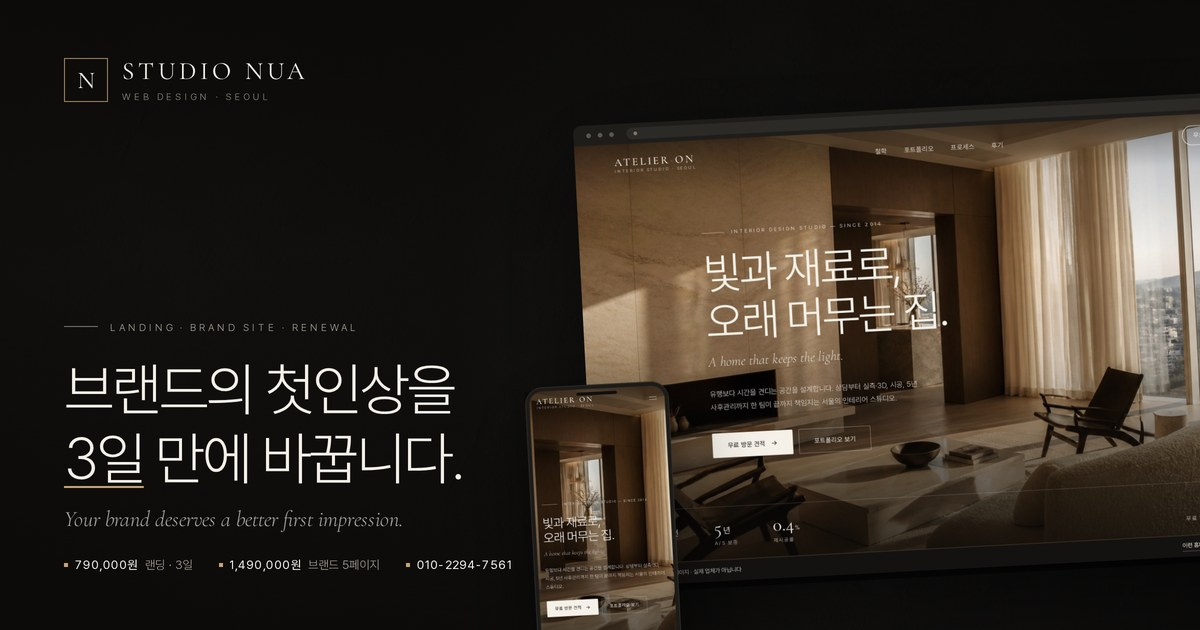
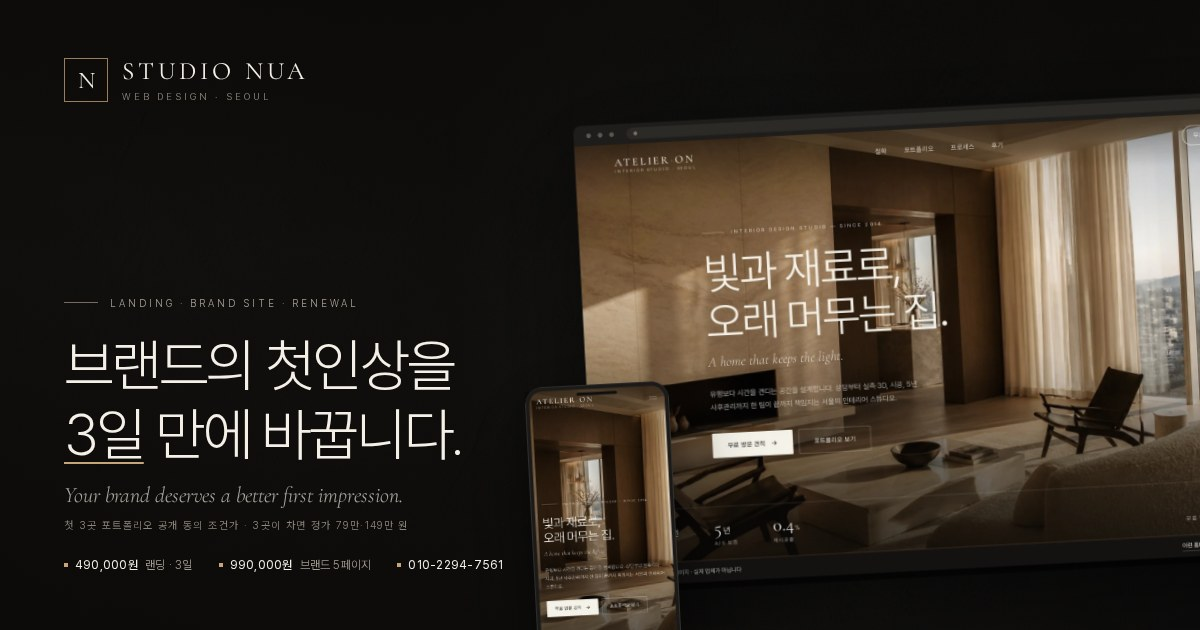
studio-nua: 공유 카드(og.jpg)를 49만·99만 조건가로 다시 렌더, og:image 캐시 갱신
- og.jpg: 790,000원/1,490,000원 -> 490,000원/990,000원, '첫 3곳 조건가·이후 정가' 한 줄 추가
- og:image·twitter:image 주소에 ?v=20261128 추가(카카오·페이스북 옛 카드 캐시 방지)

diff --git a/studio-nua/index.html b/studio-nua/index.html
@@ -15,14 +15,14 @@
 <meta property="og:title" content="스튜디오 누아 — 브랜드의 첫인상을 3일 만에 바꿉니다">
 <meta property="og:description" content="템플릿 없이, 3일 만에. 랜딩 49만 원부터 / 브랜드 5페이지 99만 원. 첫 3곳 포트폴리오 공개 동의 조건가이며, 3곳이 차면 정가 79만 원·149만 원. 30초 견적 계산기 · 무료 진단 5항목.">
 <meta property="og:url" content="https://morepick-shop.github.io/morepick-site/studio-nua/">
-<meta property="og:image" content="https://morepick-shop.github.io/morepick-site/studio-nua/assets/img/og.jpg">
+<meta property="og:image" content="https://morepick-shop.github.io/morepick-site/studio-nua/assets/img/og.jpg?v=20261128">
 <meta property="og:image:width" content="1200">
 <meta property="og:image:height" content="630">
 <meta property="og:locale" content="ko_KR">
 <meta name="twitter:card" content="summary_large_image">
 <meta name="twitter:title" content="스튜디오 누아 — 브랜드의 첫인상을 3일 만에 바꿉니다">
 <meta name="twitter:description" content="랜딩 원페이지 3일 완성. 첫 3곳은 포트폴리오 공개 동의 조건으로 49만 원(이후 79만 원). 템플릿 없이 만드는 웹 디자인 스튜디오.">
-<meta name="twitter:image" content="https://morepick-shop.github.io/morepick-site/studio-nua/assets/img/og.jpg">
+<meta name="twitter:image" content="https://morepick-shop.github.io/morepick-site/studio-nua/assets/img/og.jpg?v=20261128">
 
 <link rel="icon" type="image/svg+xml" href="assets/favicon.svg">
 <link rel="preload" href="assets/fonts/PretendardSubset.woff2" as="font" type="font/woff2" crossorigin>
